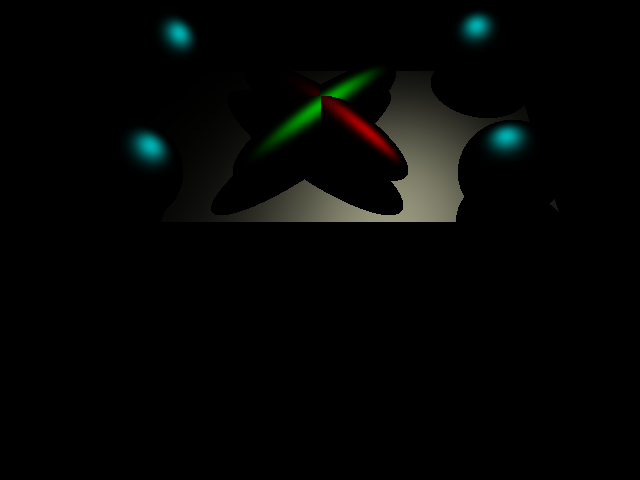
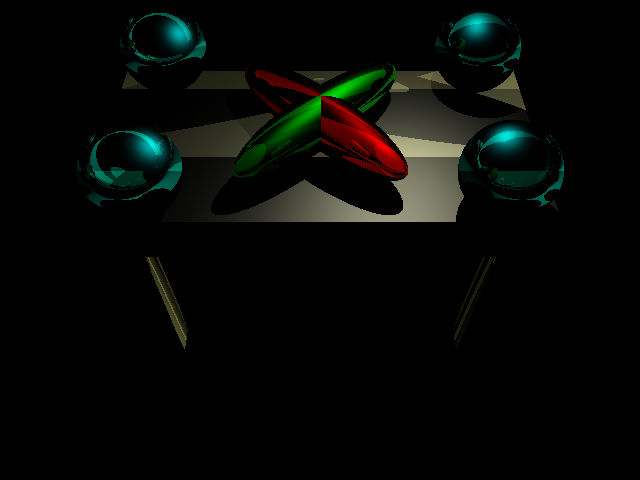
added some relfection stuff

diff --git a/hw2-windows(1)/hw2-windows/hw2-windows/main.cpp b/hw2-windows(1)/hw2-windows/hw2-windows/main.cpp
@@ -299,9 +299,9 @@ vec3 normalChecker(tuple<string, Scene*, vec3> stuff, bool light, vec3 lightdir)
 }
 
 
-vec3 pixcolor(tuple<string, Scene*, vec3, int> stuff, int depth, Scene newScene) {
+vec3 pixcolor(tuple<string, Scene*, vec3, int> stuff, int depth, Scene newScene, ray reflection) {
     vec3 color = vec3(0, 0, 0);
-    vec3 intersection = get<2>(stuff);
+    vec3 inter = get<2>(stuff);
     int name = 0;
     vec3 diff = vec3(0,0,0);
     vec3 specular = vec3(0, 0, 0);
@@ -324,8 +324,8 @@ vec3 pixcolor(tuple<string, Scene*, vec3, int> stuff, int depth, Scene newScene)
         
              float offset = 0.01;
              
-        normal = normalize(vec3(static_cast<Sphere*>(get<1>(stuff))->invTrans * vec4(intersection, 1)) - sphereCenter);
-        newIntersection = vec3(static_cast<Sphere*>(get<1>(stuff))->invTrans * vec4(intersection, 1));
+        normal = normalize(vec3(static_cast<Sphere*>(get<1>(stuff))->invTrans * vec4(inter, 1)) - sphereCenter);
+        newIntersection = vec3(static_cast<Sphere*>(get<1>(stuff))->invTrans * vec4(inter, 1));
         //intersection += (normal * offset);
         mat3 matrix = mat3(transpose(static_cast<Sphere*>(get<1>(stuff))->invTrans));
         normal = normalize(matrix * normal);
@@ -353,14 +353,14 @@ vec3 pixcolor(tuple<string, Scene*, vec3, int> stuff, int depth, Scene newScene)
         normal = normalize(cross(normalize(B - A), normalize(C - A)));
         //normal = glm::normalize(cross(normalize(C - A), normalize(B - A)));
        // normal = vec3(transpose(static_cast<Triangle*>(get<1>(stuff))->trans) * vec4(normal, 1));
-        newIntersection = vec3(static_cast<Triangle*>(get<1>(stuff))->trans * vec4(intersection, 1));
+        newIntersection = vec3(static_cast<Triangle*>(get<1>(stuff))->trans * vec4(inter, 1));
 
        // intersection += (normal * offset);
      
 
     }
    
-    vec3 eyedirn = normalize(eyeinit - intersection); //direction to the eye
+    vec3 eyedirn = normalize(eyeinit - inter); //direction to the eye
 
     if (depth == 0) {
         return color; //compute light
@@ -387,8 +387,8 @@ vec3 pixcolor(tuple<string, Scene*, vec3, int> stuff, int depth, Scene newScene)
             vec3 lightpos = vec3(newScene.lightposn[(i * 4)], newScene.lightposn[(i * 4) + 1], newScene.lightposn[(i * 4) + 2]);
             
             //use old intersectino if this fuck
-            lightdir = normalize(lightpos - intersection); //find the light direction 
-            intersection += (.01f * lightdir);
+            lightdir = normalize(lightpos - inter); //find the light direction 
+            inter += (.01f * lightdir);
           
             lightcol = vec3(newScene.lightcol[(i * 3)], newScene.lightcol[(i * 3) + 1], newScene.lightcol[(i * 3) + 2]);
             half1 = normalize(lightdir + eyedirn); //finding the half vector 
@@ -398,7 +398,7 @@ vec3 pixcolor(tuple<string, Scene*, vec3, int> stuff, int depth, Scene newScene)
        
        // Ray r = Ray(intersection + (float)0.3 * lightdir, direction);
         //ray r(intersection, lightdir); //cast a ray from the point of intersection, in the light direction
-        ray r(intersection, lightdir); //cast a ray from the point of intersection, in the light direction
+        ray r(inter, lightdir); //cast a ray from the point of intersection, in the light direction
 
         //possiblities the problem is we are getting to much shadow
         //visibibly is always returning 0
@@ -418,6 +418,16 @@ vec3 pixcolor(tuple<string, Scene*, vec3, int> stuff, int depth, Scene newScene)
 
     }
      color += ambient + emiss;
+     /*
+     vec3 directional = -eyedirn + 2.0f * dot(eyedirn, normal) * normal;
+     ray reflec(newIntersection + (normal * 0.01f), glm::normalize(directional));
+     tuple<string, Scene*, vec3, int> e = intersection(reflec, newScene);
+     if (get<0>(e) != "") {
+         color += (specular * pixcolor(e, depth - 1, newScene, reflec));
+
+     }
+     */
+     
     //looping through the lights
  
     
@@ -483,7 +493,7 @@ int main(int argc, char* argv[]) {
              //check intersection with the ray and the scene
             tuple<string, Scene*, vec3, int> a = intersection(r, newScene); //eye ray check
             if (get<0>(a) != "") {
-               pixel_color = pixcolor(a, 5, newScene); //recursively raytrace the pixel color
+               pixel_color = pixcolor(a, 5, newScene, r); //recursively raytrace the pixel color
             
             }
            
